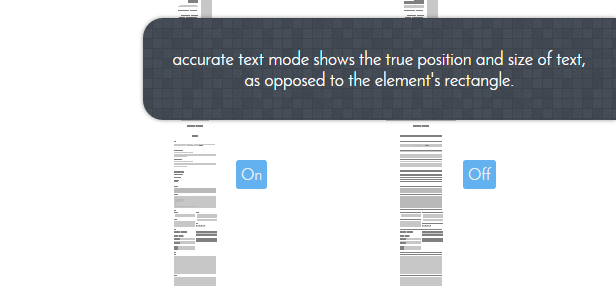
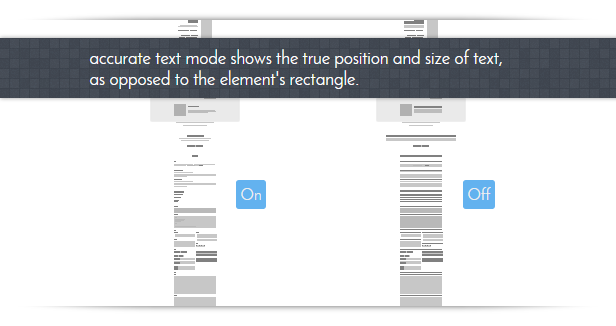
Update marketing panels

Changed region(s): [[0.0, 0.0, 1.0, 1.0]]

diff --git a/publishing-material/media-source-files/style.css b/publishing-material/media-source-files/style.css
@@ -15,8 +15,9 @@ body > div {
     margin-left: auto;
     margin-right: auto;
     overflow: hidden;
-    border: 1px solid rgb(0, 0, 0);
-    margin-top: 200px;
+    /* border: 1px solid rgb(255, 1, 1); */
+    /* margin-top: 200px; */
+    /* border-bottom: 1px solid gray; */
 }
 
 .image-preview {
@@ -159,6 +160,19 @@ display: none;
 
 }
 
+.description {
+    padding: 9px;
+    background-image: url(random_grey_variations.png);
+    font-family: 'Josefin Sans', sans-serif;
+    color: white;
+    font-size: 18px;
+    box-shadow: 0 0px 5px rgba(0,0,0,0.19), 0 0px 6px rgba(0,0,0,0.23);
+    left: 0;
+    text-align: left;
+    padding-left: 90px;
+    width: 100%;
+}
+
 .accurate-text {
     position: relative;
     width: 616px;
@@ -203,20 +217,20 @@ top: 160px;
 left: 463px;
 }
 
-.accurate-text .description {
+/*.accurate-text .description {
     padding: 30px;
     background-image: url(random_grey_variations.png);
     font-family: 'Josefin Sans', sans-serif;
     color: white;
     font-size: 18px;
     box-shadow: 0 0px 5px rgba(0,0,0,0.19), 0 0px 6px rgba(0,0,0,0.23);
-    /* border-radius: 10px; */
+    /!* border-radius: 10px; *!/
     right: 0;
     margin-left: 104px;
     border-top-left-radius: 20px;
     background-color: #63B2EF;
     border-bottom-left-radius: 20px;
-}
+}*/
 
 .autohide {
     position: relative;
@@ -230,18 +244,17 @@ left: 463px;
     right: 0;
 }
 
-.autohide .description {
-     padding: 30px;
+/*.autohide .description {
+     padding: 9px;
      background-image: url(random_grey_variations.png);
      font-family: 'Josefin Sans', sans-serif;
      color: white;
      font-size: 18px;
      box-shadow: 0 0px 5px rgba(0,0,0,0.19), 0 0px 6px rgba(0,0,0,0.23);
-     /* border-radius: 10px; */
-     margin-left: 104px;
-     border-top-left-radius: 15px;
-     border-bottom-left-radius: 15px;
- }
+     text-align: left;
+     padding-left: 90px;
+     left: 0;
+ }*/
 
 .dark {
     position: relative;
@@ -255,17 +268,71 @@ left: 463px;
     right: 0;
 }
 
-.dark .description {
-    padding: 30px;
+/*.dark .description {
+    padding: 9px;
     background-image: url(random_grey_variations.png);
     font-family: 'Josefin Sans', sans-serif;
     color: white;
     font-size: 18px;
     box-shadow: 0 0px 5px rgba(0,0,0,0.19), 0 0px 6px rgba(0,0,0,0.23);
-    /* border-radius: 10px; */
     left: 0;
-    margin-right: 221px;
-    margin-top: 271px;
-    border-top-right-radius: 15px;
-    border-bottom-right-radius: 15px;
+    text-align: left;
+    padding-left: 90px;
+}*/
+
+.spacer {
+    width: 616px;
+    height: 20px;
+    border: 1px solid red;
+    border-top: none;
+}
+
+.or-spacer {
+    /* margin-top: 28px; */
+    margin-left: 8px;
+    width: 600px;
+    position:relative;
+}
+.or-spacer .mask {
+    overflow:hidden;
+    height:20px;
+}
+.or-spacer .mask:after {
+    content:'';
+    display:block;
+    margin:-25px auto 0;
+    width:100%;
+    height:25px;
+    border-radius: 165px / 12px;
+    box-shadow: 0 0 8px rgba(0, 0, 0, 0.64);
+}
+.or-spacer span {
+    width:50px;
+    height:50px;
+    position:absolute;
+    bottom:100%;
+    margin-bottom:-25px;
+    left:50%;
+    margin-left:-25px;
+    border-radius:100%;
+    box-shadow:0 2px 4px #999;
+    background:white;
+    display: none;
+}
+.or-spacer span i {
+    position:absolute;
+    top:4px;
+    bottom:4px;
+    left:4px;
+    right:4px;
+    border-radius:100%;
+    border:1px dashed #aaa;
+    text-align:center;
+    line-height:40px;
+    font-style:normal;
+    color:#999;
+}
+
+.spacer-up {
+    transform: rotate(180deg);
 }

diff --git a/publishing-material/media-source-files/panels.html b/publishing-material/media-source-files/panels.html
@@ -9,6 +9,20 @@
     </head>
     <body>
 
+        <div class="thumbnail">
+            <img src="xivmap1.png">
+            <i class="fa fa-html5"></i>
+            <i class="fa fa-css3"></i>
+            <h1>Minimap</h1>
+        </div>
+
+        <div class="spacer spacer-up">
+            <div class="or-spacer">
+                <div class="mask"></div>
+                <span><i>▼</i></span>
+            </div>
+        </div>
+
         <div class="image-preview">
             <div class="bg1"></div>
             <div class="bg2"></div>
@@ -29,11 +43,18 @@
             <img src="xivmap1.png">
         </div>
 
-        <div class="thumbnail">
-            <img src="xivmap1.png">
-            <i class="fa fa-html5"></i>
-            <i class="fa fa-css3"></i>
-            <h1>Minimap</h1>
+        <div class="spacer">
+            <div class="or-spacer">
+                <div class="mask"></div>
+                <span><i>▼</i></span>
+            </div>
+        </div>
+
+        <div class="spacer spacer-up">
+            <div class="or-spacer">
+                <div class="mask"></div>
+                <span><i>▼</i></span>
+            </div>
         </div>
 
         <div class="accurate-text">
@@ -44,9 +65,37 @@
             <div class="off-txt">Off</div>
         </div>
 
+        <div class="spacer">
+            <div class="or-spacer">
+                <div class="mask"></div>
+                <span><i>▼</i></span>
+            </div>
+        </div>
+
+        <div class="spacer spacer-up">
+            <div class="or-spacer">
+                <div class="mask"></div>
+                <span><i>▼</i></span>
+            </div>
+        </div>
+
         <div class="autohide">
             <video class="vid" src="autohide-small.mp4" loop autoplay></video>
             <p class="description">with autohide enabled<br>Xivmap gets out of the way until it's needed.</p>
+        </div>
+
+        <div class="spacer">
+            <div class="or-spacer">
+                <div class="mask"></div>
+                <span><i>▼</i></span>
+            </div>
+        </div>
+
+        <div class="spacer spacer-up">
+            <div class="or-spacer">
+                <div class="mask"></div>
+                <span><i>▼</i></span>
+            </div>
         </div>
 
         <div class="dark">
@@ -57,6 +106,12 @@
             </p>
         </div>
 
+        <div class="spacer">
+            <div class="or-spacer">
+                <div class="mask"></div>
+                <span><i>▼</i></span>
+            </div>
+        </div>
 
     </body>
 </html>
